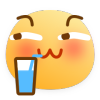
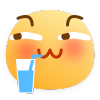
新增智慧的眼神等6个表情

diff --git a/README_CN.md b/README_CN.md
@@ -125,7 +125,13 @@ Twikoo可以在json文件中添加：
         { "icon": "<img src=\"https://cdn.jsdelivr.net/gh/zhheo/Sticker-Heo@main/Sticker-100/电话.png\">", "text": "heo-电话" },
         { "icon": "<img src=\"https://cdn.jsdelivr.net/gh/zhheo/Sticker-Heo@main/Sticker-100/托腮.png\">", "text": "heo-托腮" },
         { "icon": "<img src=\"https://cdn.jsdelivr.net/gh/zhheo/Sticker-Heo@main/Sticker-100/裂开.png\">", "text": "heo-裂开" },
-        { "icon": "<img src=\"https://cdn.jsdelivr.net/gh/zhheo/Sticker-Heo@main/Sticker-100/滑稽柠檬.png\">", "text": "heo-滑稽柠檬" }
+        { "icon": "<img src=\"https://cdn.jsdelivr.net/gh/zhheo/Sticker-Heo@main/Sticker-100/滑稽柠檬.png\">", "text": "heo-滑稽柠檬" },
+        { "icon": "<img src=\"https://cdn.jsdelivr.net/gh/zhheo/Sticker-Heo@main/Sticker-100/伞兵.png\">", "text": "heo-伞兵" },
+        { "icon": "<img src=\"https://cdn.jsdelivr.net/gh/zhheo/Sticker-Heo@main/Sticker-100/胡子.png\">", "text": "heo-胡子" },
+        { "icon": "<img src=\"https://cdn.jsdelivr.net/gh/zhheo/Sticker-Heo@main/Sticker-100/小偷.png\">", "text": "heo-小偷" },
+        { "icon": "<img src=\"https://cdn.jsdelivr.net/gh/zhheo/Sticker-Heo@main/Sticker-100/智慧的眼神.png\">", "text": "heo-智慧的眼神" },
+        { "icon": "<img src=\"https://cdn.jsdelivr.net/gh/zhheo/Sticker-Heo@main/Sticker-100/菜狗花.png\">", "text": "heo-菜狗花" },
+        { "icon": "<img src=\"https://cdn.jsdelivr.net/gh/zhheo/Sticker-Heo@main/Sticker-100/滑稽奶茶.png\">", "text": "heo-滑稽奶茶" }
     ]
     },
 ```
@@ -224,6 +230,12 @@ Twikoo可以在json文件中添加：
     "heo-托腮": "https://cdn.jsdelivr.net/gh/zhheo/Sticker-Heo@main/Sticker-100/托腮.png",
     "heo-裂开": "https://cdn.jsdelivr.net/gh/zhheo/Sticker-Heo@main/Sticker-100/裂开.png",
     "heo-滑稽柠檬": "https://cdn.jsdelivr.net/gh/zhheo/Sticker-Heo@main/Sticker-100/滑稽柠檬.png",
+    "heo-伞兵": "https://cdn.jsdelivr.net/gh/zhheo/Sticker-Heo@main/Sticker-100/伞兵.png",
+    "heo-胡子": "https://cdn.jsdelivr.net/gh/zhheo/Sticker-Heo@main/Sticker-100/胡子.png",
+    "heo-小偷": "https://cdn.jsdelivr.net/gh/zhheo/Sticker-Heo@main/Sticker-100/小偷.png",
+    "heo-裂开": "https://cdn.jsdelivr.net/gh/zhheo/Sticker-Heo@main/Sticker-100/裂开.png",
+    "heo-智慧的眼神": "https://cdn.jsdelivr.net/gh/zhheo/Sticker-Heo@main/Sticker-100/智慧的眼神.png",
+    "heo-滑稽奶茶": "https://cdn.jsdelivr.net/gh/zhheo/Sticker-Heo@main/Sticker-100/滑稽奶茶.png"
     }
 ```
 
